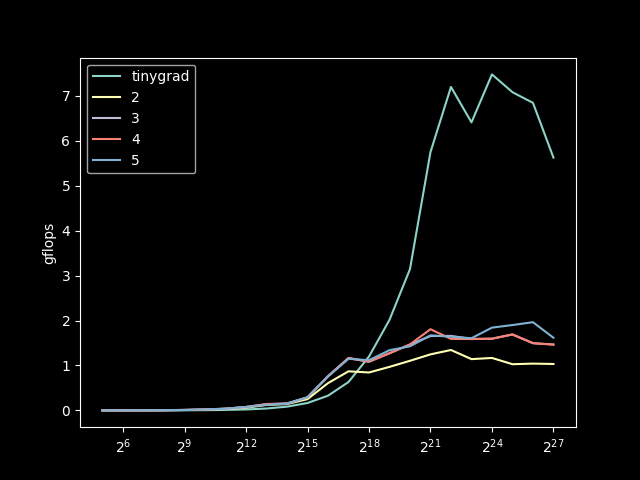
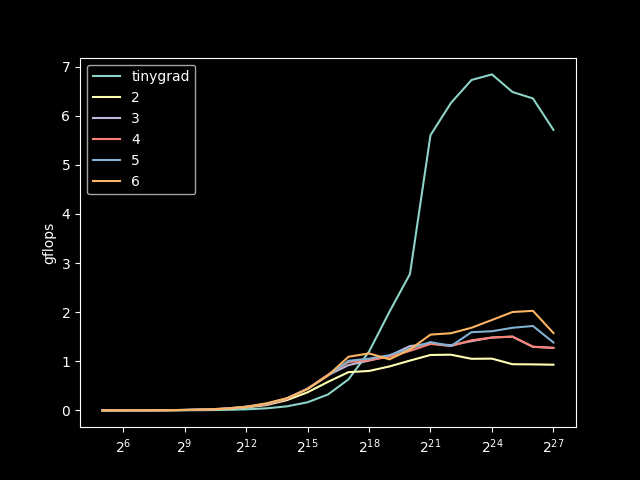
6

diff --git a/metal.py b/metal.py
@@ -43,10 +43,10 @@ using namespace metal;
 kernel void k2(device float *d0, device float *d1, uint3 gid [[threadgroup_position_in_grid]], uint3 lid [[thread_position_in_threadgroup]]) {{
     size_t lid0 = lid.x;
     threadgroup float reduce[{local_size[0]}];
-    size_t BLOCK = ({n} + {local_size[0]} - 1) / {local_size[0]};
+    size_t BLOCK = ({n_pad} + {local_size[0]} - 1) / {local_size[0]};
 
     float max_val = -FLT_MAX;
-    for (size_t i = lid0 * BLOCK; i < min((lid0 + 1) * BLOCK, (size_t){n}); ++i) {{
+    for (size_t i = lid0 * BLOCK; i < min((lid0 + 1) * BLOCK, (size_t){n_pad}); ++i) {{
         max_val = fmax(max_val, d1[i]);
     }}
     reduce[lid0] = max_val;
@@ -60,7 +60,7 @@ kernel void k2(device float *d0, device float *d1, uint3 gid [[threadgroup_posit
     threadgroup_barrier(mem_flags::mem_threadgroup);
     max_val = reduce[0];
     float sum_exp = 0.0f;
-    for (size_t i = lid0 * BLOCK; i < min((lid0 + 1) * BLOCK, (size_t){n}); ++i) {{
+    for (size_t i = lid0 * BLOCK; i < min((lid0 + 1) * BLOCK, (size_t){n_pad}); ++i) {{
         sum_exp += exp(d1[i] - max_val);
     }}
     reduce[lid0] = sum_exp;
@@ -73,7 +73,7 @@ kernel void k2(device float *d0, device float *d1, uint3 gid [[threadgroup_posit
 
     threadgroup_barrier(mem_flags::mem_threadgroup);
     sum_exp = reduce[0];
-    for (size_t i = lid0 * BLOCK; i < min((lid0 + 1) * BLOCK, (size_t){n}); ++i) {{
+    for (size_t i = lid0 * BLOCK; i < min((lid0 + 1) * BLOCK, (size_t){n_pad}); ++i) {{
         d0[i] = exp(d1[i] - max_val) / sum_exp;
     }}
 }}
@@ -89,7 +89,7 @@ kernel void k3(device float *d0, device float *d1, uint3 gid [[threadgroup_posit
     threadgroup float reduce[{local_size[0]}];
 
     float max_val = -FLT_MAX;
-    for (size_t i = lid0; i < (size_t){n}; i += {local_size[0]}) {{
+    for (size_t i = lid0; i < (size_t){n_pad}; i += {local_size[0]}) {{
         max_val = fmax(max_val, d1[i]);
     }}
     reduce[lid0] = max_val;
@@ -103,7 +103,7 @@ kernel void k3(device float *d0, device float *d1, uint3 gid [[threadgroup_posit
     threadgroup_barrier(mem_flags::mem_threadgroup);
     max_val = reduce[0];
     float sum_exp = 0.0f;
-    for (size_t i = lid0; i < (size_t){n}; i += {local_size[0]}) {{
+    for (size_t i = lid0; i < (size_t){n_pad}; i += {local_size[0]}) {{
         sum_exp += exp(d1[i] - max_val);
     }}
     reduce[lid0] = sum_exp;
@@ -116,7 +116,7 @@ kernel void k3(device float *d0, device float *d1, uint3 gid [[threadgroup_posit
 
     threadgroup_barrier(mem_flags::mem_threadgroup);
     sum_exp = reduce[0];
-    for (size_t i = lid0; i < (size_t){n}; i += {local_size[0]}) {{
+    for (size_t i = lid0; i < (size_t){n_pad}; i += {local_size[0]}) {{
         d0[i] = exp(d1[i] - max_val) / sum_exp;
     }}
 }}
@@ -133,7 +133,7 @@ kernel void k4(device float *d0, device float *d1, uint3 gid [[threadgroup_posit
     threadgroup float reduce[{local_size[0]} / 32];
 
     float max_val = -FLT_MAX;
-    for (size_t i = lid0; i < (size_t){n}; i += {local_size[0]}) {{
+    for (size_t i = lid0; i < (size_t){n_pad}; i += {local_size[0]}) {{
         max_val = fmax(max_val, d1[i]);
     }}
     max_val = simd_max(max_val);
@@ -153,7 +153,7 @@ kernel void k4(device float *d0, device float *d1, uint3 gid [[threadgroup_posit
     threadgroup_barrier(mem_flags::mem_threadgroup);
     max_val = reduce[0];
     float sum_exp = 0.0f;
-    for (size_t i = lid0; i < (size_t){n}; i += {local_size[0]}) {{
+    for (size_t i = lid0; i < (size_t){n_pad}; i += {local_size[0]}) {{
         sum_exp += exp(d1[i] - max_val);
     }}
     sum_exp = simd_sum(sum_exp);
@@ -172,7 +172,7 @@ kernel void k4(device float *d0, device float *d1, uint3 gid [[threadgroup_posit
 
     threadgroup_barrier(mem_flags::mem_threadgroup);
     sum_exp = reduce[0];
-    for (size_t i = lid0; i < (size_t){n}; i += {local_size[0]}) {{
+    for (size_t i = lid0; i < (size_t){n_pad}; i += {local_size[0]}) {{
         d0[i] = exp(d1[i] - max_val) / sum_exp;
     }}
 }}
@@ -192,7 +192,7 @@ kernel void k5(device float *d0, device float *d1, uint3 gid [[threadgroup_posit
     float max_val = -FLT_MAX;
     float max_val_old = max_val;
     float sum_exp = 0.0f;
-    for (size_t i = lid0; i < (size_t){n}; i += {local_size[0]}) {{
+    for (size_t i = lid0; i < (size_t){n_pad}; i += {local_size[0]}) {{
         max_val = fmax(max_val, d1[i]);
         if (max_val > max_val_old) {{
             sum_exp *= exp(max_val_old - max_val);
@@ -226,8 +226,70 @@ kernel void k5(device float *d0, device float *d1, uint3 gid [[threadgroup_posit
     threadgroup_barrier(mem_flags::mem_threadgroup);
     max_val = reduce_max[0];
     sum_exp = reduce_sum[0];
-    for (size_t i = lid0; i < (size_t){n}; i += {local_size[0]}) {{
+    for (size_t i = lid0; i < (size_t){n_pad}; i += {local_size[0]}) {{
         d0[i] = exp(d1[i] - max_val) / sum_exp;
+    }}
+}}
+"""
+
+
+k6 = """
+#include <metal_stdlib>
+using namespace metal;
+
+kernel void k6(device float *d0, device float *d1, uint3 gid [[threadgroup_position_in_grid]], uint3 lid [[thread_position_in_threadgroup]]) {{
+    size_t lid0 = lid.x;
+    size_t simd_id = lid0 / 32;
+    threadgroup float reduce_max[{local_size[0]} / 32];
+    threadgroup float reduce_sum[{local_size[0]} / 32];
+
+    float max_val = -FLT_MAX;
+    float max_val_old = max_val;
+    float sum_exp = 0.0f;
+    for (size_t i = lid0; i < (size_t)({n_pad} / 4); i += {local_size[0]}) {{
+        float4 val = ((device float4 *)d1)[i];
+        max_val = fmax(max_val, val.x);
+        max_val = fmax(max_val, val.y);
+        max_val = fmax(max_val, val.z);
+        max_val = fmax(max_val, val.w);
+        if (max_val > max_val_old) {{
+            sum_exp *= exp(max_val_old - max_val);
+            max_val_old = max_val;
+        }}
+        sum_exp += exp(val.x - max_val);
+        sum_exp += exp(val.y - max_val);
+        sum_exp += exp(val.z - max_val);
+        sum_exp += exp(val.w - max_val);
+    }}
+    max_val = simd_max(max_val);
+    sum_exp *= exp(max_val_old - max_val);
+    sum_exp = simd_sum(sum_exp);
+    if (lid0 % 32 == 0) {{
+        reduce_max[simd_id] = max_val;
+        reduce_sum[simd_id] = sum_exp;
+    }}
+
+    threadgroup_barrier(mem_flags::mem_threadgroup);
+    if (simd_id == 0) {{
+        max_val = lid0 < {local_size[0]} / 32 ? reduce_max[lid0] : -FLT_MAX;
+        max_val_old = max_val;
+        sum_exp = lid0 < {local_size[0]} / 32 ? reduce_sum[lid0] : 0.0f;
+
+        max_val = simd_max(max_val);
+        sum_exp *= exp(max_val_old - max_val);
+        sum_exp = simd_sum(sum_exp);
+        if (lid0 == 0) {{
+            reduce_max[0] = max_val;
+            reduce_sum[0] = sum_exp;
+        }}
+    }}
+
+    threadgroup_barrier(mem_flags::mem_threadgroup);
+    max_val = reduce_max[0];
+    sum_exp = reduce_sum[0];
+    for (size_t i = lid0; i < (size_t)({n_pad} / 4); i += {local_size[0]}) {{
+        float4 val = ((device float4 *)d1)[i];
+        ((device float4 *)d0)[i] = exp(val - max_val) / sum_exp;
     }}
 }}
 """
@@ -241,24 +303,27 @@ def _sched(
     global_size: list[int],
     local_size: list[int],
 ) -> np.ndarray:
+    n_pad = (n + 3) & ~3
+    d0_buf, d1_buf = metalalloc.alloc(n_pad * 4), metalalloc.alloc(n_pad * 4)
+    data_pad = np.pad(data, (0, n_pad - n), constant_values=np.finfo(np.float32).min)
+    metalalloc._copyin(d1_buf, data_pad.tobytes())
+
     prog = MetalProgram(
         Device[Device.DEFAULT],
         name,
-        compile(kernel.format(n=n, global_size=global_size, local_size=local_size)),
+        compile(
+            kernel.format(n_pad=n_pad, global_size=global_size, local_size=local_size)
+        ),
     )
-
-    d0_buf, d1_buf = metalalloc.alloc(n * 4), metalalloc.alloc(n * 4)
-    metalalloc._copyin(d1_buf, data.tobytes())
-
     prog(d0_buf, d1_buf, global_size=global_size, local_size=local_size, wait=True)
 
-    d0 = np.empty((n), dtype=np.float32)
+    d0 = np.empty((n_pad), dtype=np.float32)
     metalalloc._copyout(flat_mv(d0.data), d0_buf)
 
-    metalalloc.free(d0_buf, n * 4)
-    metalalloc.free(d1_buf, n * 4)
+    metalalloc.free(d0_buf, n_pad * 4)
+    metalalloc.free(d1_buf, n_pad * 4)
 
-    return d0
+    return d0[:n]
 
 
 if __name__ == "__main__":
@@ -267,5 +332,6 @@ if __name__ == "__main__":
         "3": partial(_sched, "k3", k3),
         "4": partial(_sched, "k4", k4),
         "5": partial(_sched, "k5", k5),
+        "6": partial(_sched, "k6", k6),
     }
     perf.run(kernel)
